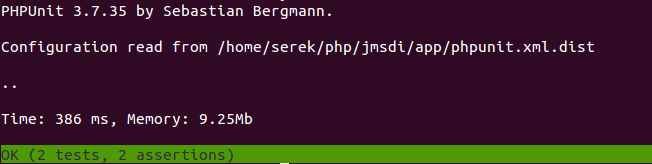
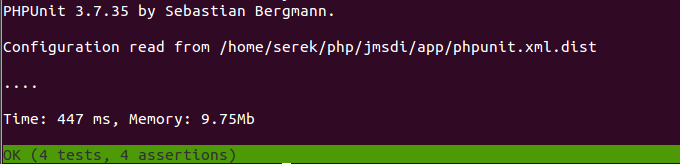
Improve description of the test section

diff --git a/index.html b/index.html
@@ -324,7 +324,7 @@
                 <h2>Tests</h2>
                 <pre><code>
         /**
-        * @DI\Service("mrok_press.problem_solver")
+        * @DI\Service("mrok.problem_solver")
         */
         class ProblemSolver
         {
@@ -344,10 +344,7 @@
                 <pre><code>
         class ProblemSolverTest extends \PHPUnit_Framework_TestCase
         {
-            /**
-            * @test
-            */
-            public function doTheMagic()
+            public function testDoTheMagic()
             {
                 $ps = new ProblemSolver();
                 $mock = \Mockery::mock('swift_mailer');
@@ -357,9 +354,33 @@
 
                 $this->assertEquals(42, $ps->doTheMagic());
             }
+
+            public function doTheMagicNoMailer()
+            {
+                $ps = new ProblemSolver();
+                $this->assertEquals(-1, $ps->doTheMagic());
+            }
+                </code></pre>
+            </section>
+
+            <section>
+                <pre><code>
+        /**
+        * @test
+        * Obtain services from container, jmsdi in use
+        */
+        public function doTheMagicWithContainer()
+        {
+            $kernel = self::createKernel();
+            $kernel->boot();
+
+            $this->problemSolver = $kernel->getContainer()
+                                   ->get('mrok.problem_solver');
+            $this->assertEquals(42, $this->problemSolver->doTheMagic());
         }
                 </code></pre>
             </section>
+
             <section>
                 <img src="images/tests.png">
             </section>
